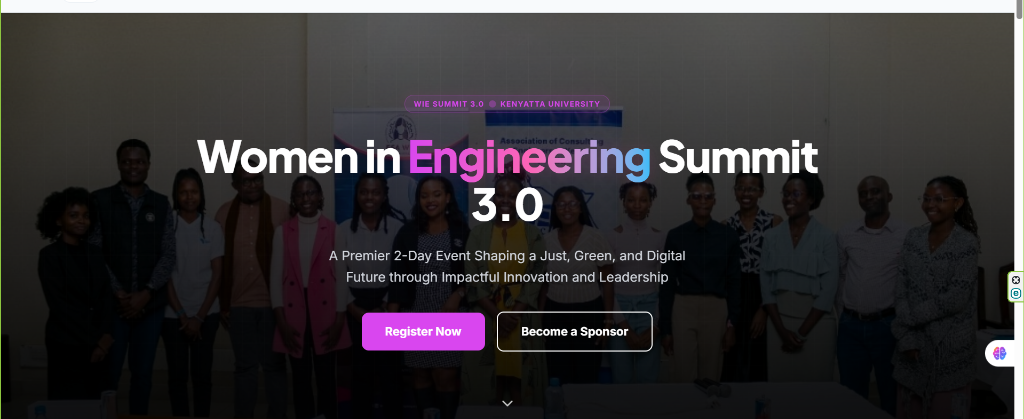
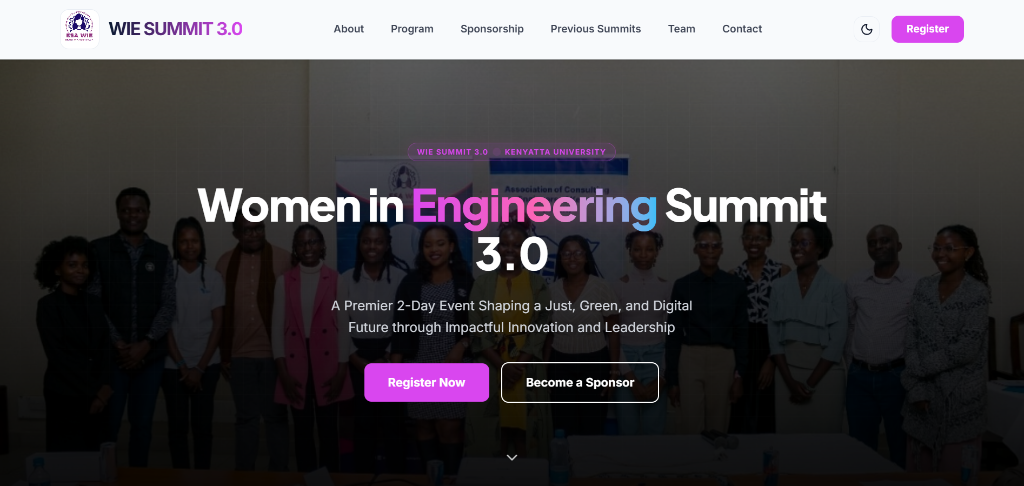
Replace homepage share preview image with user cropped version

diff --git a/app/layout.tsx b/app/layout.tsx
@@ -50,7 +50,7 @@ export const metadata: Metadata = {
       {
         url: '/images/homepage_preview.png',
         width: 1024,
-        height: 419,
+        height: 486,
         alt: 'WIE Summit 3.0 Home Preview',
       },
     ],
